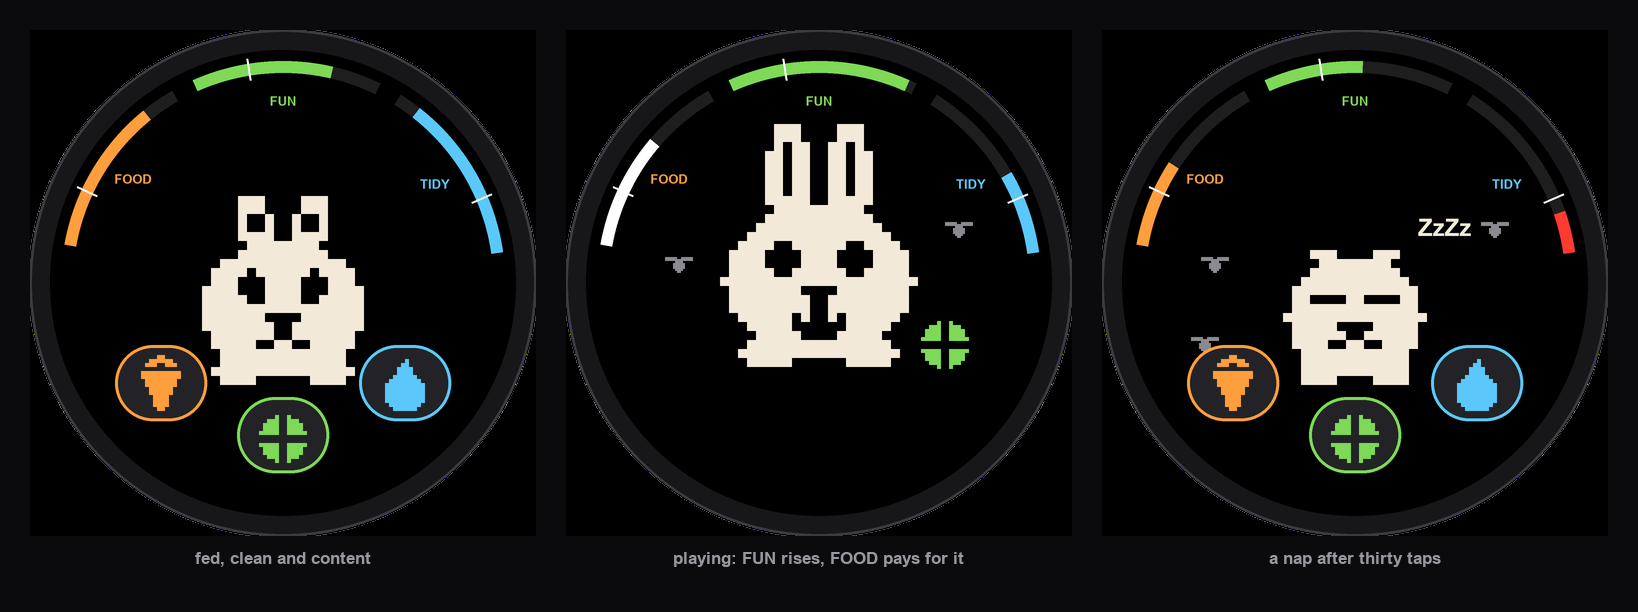
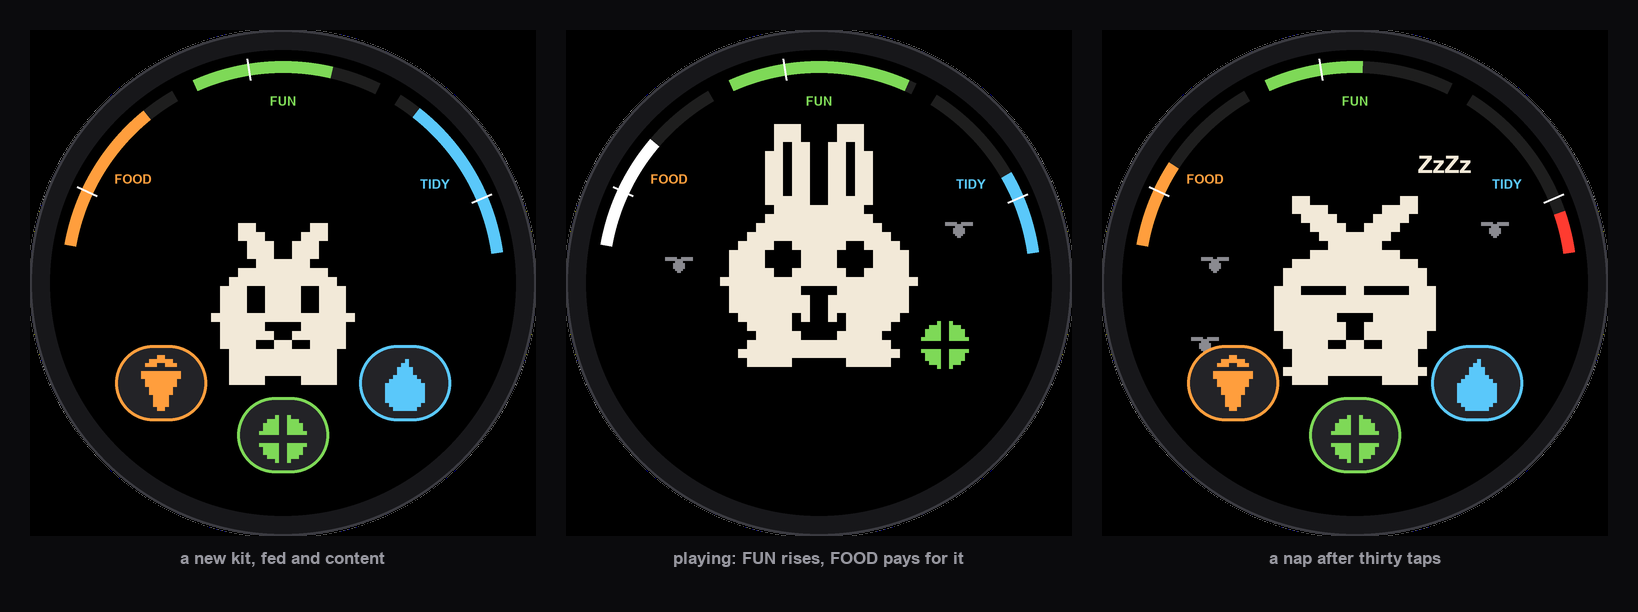
Give the kit ears worth calling ears
The baby's ears were nubs: an ear scale of 0.35 with most of the lean of a
flop, which at this size came out as two bumps on a round head. Nothing about
it said rabbit, which is the one thing the first stage has to say.

The scale goes to 0.65 and the lean to 0.45, so the ears stand up half again
as tall and still fall outward like a kit's. They stay shorter than the young
rabbit's, so growth still shows.

The inner ear had to learn a new rule. It is carved out of the outer ear, so
on a narrow ear it left two single-pixel walls, which is what the baby's ears
would have become as soon as they were tall enough to qualify. The test is now
the width in pixels, which is what actually decides whether the ear survives
having a hole cut in it. Nothing changes for the young or the adult.

The mock now opens on the kit, awake, since that is the stage a child meets
first, and the young rabbit takes the nap.

diff --git a/components/user_app/sprites.h b/components/user_app/sprites.h
@@ -48,11 +48,11 @@ static const char *const SPRITES[STAGE_COUNT][SPR_COUNT][SPRITE_H] = {
             "................................",
             "................................",
             "................................",
-            "................................",
-            "................................",
-            "................................",
+            "...........##......##...........",
+            "...........###....###...........",
             "............###..###............",
-            "............########............",
+            "............###..###............",
+            ".............######.............",
             "...........##########...........",
             "..........############..........",
             ".........###..####..###.........",
@@ -82,11 +82,11 @@ static const char *const SPRITES[STAGE_COUNT][SPR_COUNT][SPRITE_H] = {
             "................................",
             "................................",
             "................................",
-            "................................",
-            "................................",
-            "................................",
+            "...........##......##...........",
+            "...........###....###...........",
             "............###..###............",
-            "............########............",
+            "............###..###............",
+            ".............######.............",
             "...........##########...........",
             "..........############..........",
             ".........##############.........",
@@ -116,11 +116,11 @@ static const char *const SPRITES[STAGE_COUNT][SPR_COUNT][SPRITE_H] = {
             "................................",
             "................................",
             "................................",
-            "................................",
-            "................................",
-            "................................",
+            "...........##......##...........",
+            "...........###....###...........",
             "............###..###............",
-            "............########............",
+            "............###..###............",
+            ".............######.............",
             "...........##########...........",
             "..........############..........",
             ".........###..####..###.........",
@@ -148,11 +148,11 @@ static const char *const SPRITES[STAGE_COUNT][SPR_COUNT][SPRITE_H] = {
             "................................",
             "................................",
             "................................",
-            "................................",
-            "................................",
-            "................................",
+            "...........##......##...........",
+            "...........###....###...........",
             "............###..###............",
-            "............########............",
+            "............###..###............",
+            ".............######.............",
             "...........##########...........",
             "..........############..........",
             ".........###..####..###.........",
@@ -184,11 +184,11 @@ static const char *const SPRITES[STAGE_COUNT][SPR_COUNT][SPRITE_H] = {
             "................................",
             "................................",
             "................................",
-            "................................",
-            "................................",
-            "................................",
+            "..........##........##..........",
             "...........###....###...........",
+            "...........####..####...........",
             "............########............",
+            ".............######.............",
             "...........##########...........",
             "..........############..........",
             ".........##############.........",
@@ -218,9 +218,9 @@ static const char *const SPRITES[STAGE_COUNT][SPR_COUNT][SPRITE_H] = {
             "................................",
             "................................",
             "................................",
-            "................................",
-            "................................",
-            "................................",
+            ".............#....#.............",
+            "............###..###............",
+            "............###..###............",
             "............###..###............",
             "............########............",
             "...........##########...........",
@@ -252,11 +252,11 @@ static const char *const SPRITES[STAGE_COUNT][SPR_COUNT][SPRITE_H] = {
             "................................",
             "................................",
             "................................",
-            "................................",
-            "................................",
-            "................................",
+            "..........##........##..........",
             "...........###....###...........",
+            "...........####..####...........",
             "............########............",
+            ".............######.............",
             "...........##########...........",
             "..........############..........",
             ".........####..####..##.........",
@@ -286,11 +286,11 @@ static const char *const SPRITES[STAGE_COUNT][SPR_COUNT][SPRITE_H] = {
             "................................",
             "................................",
             "................................",
-            "................................",
-            "................................",
-            "................................",
+            "...........##......##...........",
+            "...........###....###...........",
             "............###..###............",
-            "............########............",
+            "............###..###............",
+            ".............######.............",
             "...........##########...........",
             "..........############..........",
             ".........##############.........",

diff --git a/tools/gen_sprites.py b/tools/gen_sprites.py
@@ -7,7 +7,7 @@ W = H = 32
 FRAMES = ['IDLE_A', 'IDLE_B', 'EAT', 'PLAY', 'SLEEP', 'HUNGRY', 'BORED', 'DIRTY']
 STAGES = [
     # name,    body cx, cy,  rx,   ry,  ear scale, ear lean at rest
-    ('BABY',    15.5, 22.0,  7.5,  6.5,  0.35,  0.60),   # a newborn kit: small, ears flat
+    ('BABY',    15.5, 22.0,  7.5,  6.5,  0.65,  0.45),   # a kit: small, ears short and out
     ('YOUNG',   15.5, 21.0,  9.0,  7.5,  0.70,  0.15),
     ('ADULT',   15.5, 20.0, 10.5,  8.5,  1.00,  0.00),
 ]
@@ -52,7 +52,10 @@ class Body:
         for side in (-1, 1):
             ear(g, self.cx + side * self.rx * 0.33, self.ear_cy + dy,
                 self.ear_rx, self.ear_ry, side * lean)
-            if self.ear_scale > 0.5 and lean < 0.4:      # inner ear, only when it fits
+            # The inner ear is carved out of the outer one, so a narrow ear
+            # would be left as two single-pixel walls. Judge it on the width
+            # in pixels, which is what decides whether it survives.
+            if self.ear_rx >= 2.0 and lean < 0.4:
                 ell(g, self.cx + side * self.rx * 0.33, self.ear_cy + dy - self.ear_ry * 0.15,
                     self.ear_rx * 0.38, self.ear_ry * 0.47, '.')
         ell(g, self.cx, self.cy + dy, self.rx, self.ry)

diff --git a/tools/mock_screen.py b/tools/mock_screen.py
@@ -108,10 +108,10 @@ def device(stage, frame, food, fun, tidy, buttons=True, paid=None, zzz=False, ba
     return case.resize((W + 40, W + 40), Image.LANCZOS)
 
 PANELS = [
-    ('fed, clean and content',              device('YOUNG', 'IDLE_A', 82, 74, 88)),
+    ('a new kit, fed and content',          device('BABY', 'IDLE_A', 82, 74, 88)),
     ('playing: FUN rises, FOOD pays for it', device('ADULT', 'PLAY', 61, 96, 44,
                                                     buttons=False, paid=0, ball=True)),
-    ('a nap after thirty taps',             device('BABY', 'SLEEP', 46, 52, 22, zzz=True)),
+    ('a nap after thirty taps',             device('YOUNG', 'SLEEP', 46, 52, 22, zzz=True)),
 ]
 PAD, CAP, SIDE = 30, 46, 506
 sheet = Image.new('RGB', (len(PANELS) * (SIDE + PAD) + PAD, SIDE + 2 * PAD + CAP), '#0B0B0D')
